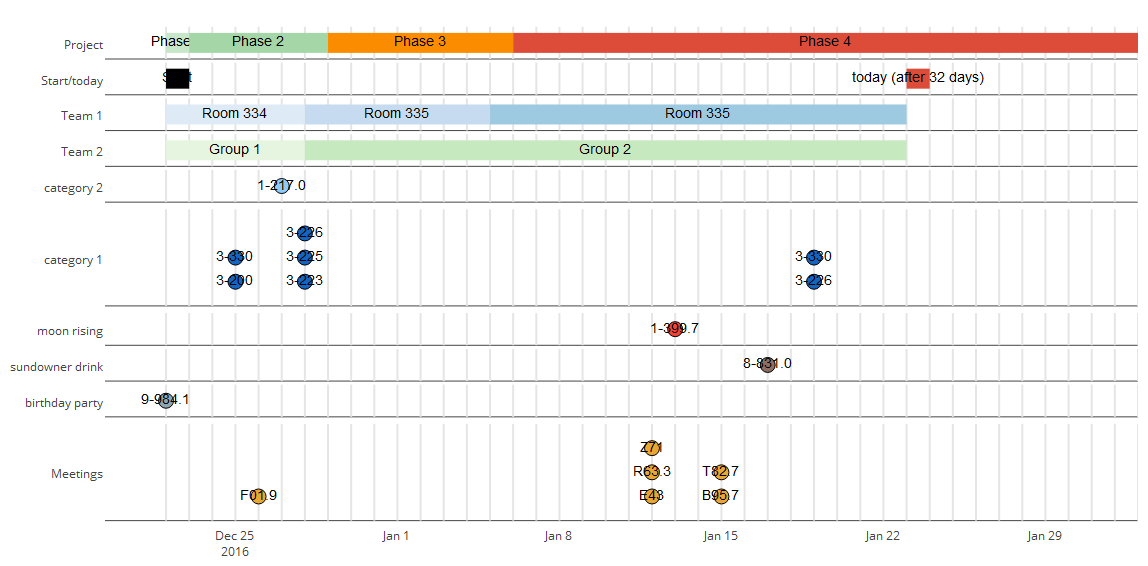
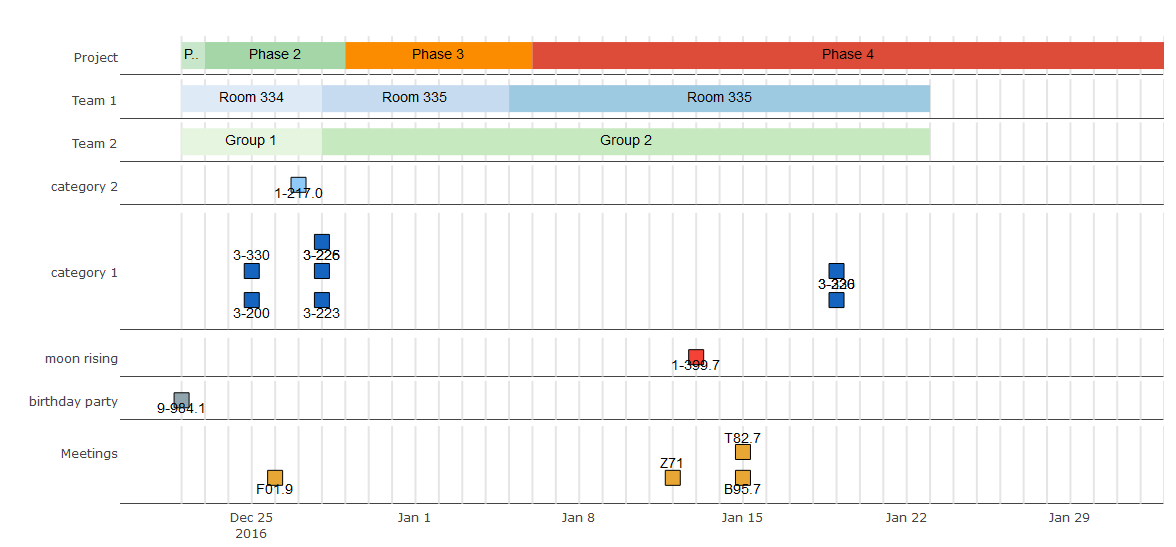
v040

diff --git a/README.md b/README.md
@@ -20,7 +20,7 @@ install.packages("vistime")
 
 To install the development version (v0.4.0, most recent fixes and improvements, but not released on CRAN yet, see NEWS), run the following code in an R console:
 ```{r}
-install.packages("devtools")
+require("devtools")
 devtools::install_github("shosaco/vistime") 
 ```
 
@@ -29,23 +29,24 @@ devtools::install_github("shosaco/vistime")
 
 ```{r}
 vistime(data, start = "start", end = "end", groups = "group", events = "event", colors = "color", 
-              fontcolors = "fontcolor", tooltips = "tooltip", title = NULL)
+              fontcolors = "fontcolor", tooltips = "tooltip", linewidth=NULL, title = NULL)
 ````
 
 
 ### Arguments
 
-parameter | optional? | explanation 
+parameter | optional? | data type | explanation 
 --------- |----------- | ----------- 
-data | mandatory | data.frame that contains the data to be visualised
-start | optional | the column name in data that contains start dates. Default: *"start"*
-end | optional | the column name in data that contains end dates. Default: *"end"*
-groups | optional | the column name in data to be used for grouping. Default: *"group"*
-events | optional | the column name in data that contains event names. Default: *"event"*
-colors | optional | the column name in data that contains colors for events. Default: *"color"*, if not present, colors are chosen via RColorBrewer
-fontcolors | optional | the column name in data that contains the font color for event labels. Default: "*fontcolor*", if not present, color will be black
-tooltips | optional | the column name in data that contains the mouseover tooltips for the events. Default: "*tooltip*", if not present, then tooltips are build from event name and date. <a href="http://help.plot.ly/adding-HTML-and-links-to-charts/#step-2-the-essentials">Basic HTML</a> is allowed
-title | optional | the title to be shown on top of the timeline
+data | mandatory | data.frame | data.frame that contains the data to be visualised
+start | optional | character | the column name in data that contains start dates. Default: *"start"*
+end | optional | character | the column name in data that contains end dates. Default: *"end"*
+groups | optional | character | the column name in data to be used for grouping. Default: *"group"*
+events | optional | character | the column name in data that contains event names. Default: *"event"*
+colors | optional | character | the column name in data that contains colors for events. Default: *"color"*, if not present, colors are chosen via RColorBrewer
+fontcolors | optional | character | the column name in data that contains the font color for event labels. Default: "*fontcolor*", if not present, color will be black
+tooltips | optional | character | the column name in data that contains the mouseover tooltips for the events. Default: "*tooltip*", if not present, then tooltips are build from event name and date. <a href="http://help.plot.ly/adding-HTML-and-links-to-charts/#step-2-the-essentials", target="_blank">Basic HTML</a> is allowed
+linewidth | optional | numeric | override the calculated linewidth for events
+title | optional | character | the title to be shown on top of the timeline
 
 ### Value
 
@@ -74,8 +75,6 @@ data <- read.csv(text="event,group,start,end,color
                        Phase 2,Project,2016-12-23,2016-12-29,#a5d6a7
                        Phase 3,Project,2016-12-29,2017-01-06,#fb8c00
                        Phase 4,Project,2017-01-06,2017-02-02,#DD4B39
-                       Start,Start/today,2016-12-22,2016-12-23,#000000
-                       today (after 32 days),Start/today,2017-01-23,2017-01-24,#DD4B39
                        1-217.0,category 2,2016-12-27,2016-12-27,#90caf9
                        3-200,category 1,2016-12-25,2016-12-25,#1565c0
                        3-330,category 1,2016-12-25,2016-12-25,#1565c0
@@ -88,8 +87,6 @@ data <- read.csv(text="event,group,start,end,color
                        8-831.0,sundowner drink,2017-01-17,2017-01-17,#8d6e63
                        9-984.1,birthday party,2016-12-22,2016-12-22,#90a4ae
                        F01.9,Meetings,2016-12-26,2016-12-26,#e8a735
-                       E43,Meetings,2017-01-12,2017-01-12,#e8a735
-                       R63.3,Meetings,2017-01-12,2017-01-12,#e8a735
                        Z71,Meetings,2017-01-12,2017-01-12,#e8a735
                        B95.7,Meetings,2017-01-15,2017-01-15,#e8a735
                        T82.7,Meetings,2017-01-15,2017-01-15,#e8a735

diff --git a/NEWS.md b/NEWS.md
@@ -1,12 +1,13 @@
-# 0.4.0 (not on CRAN yet)
-- line width of ranges improved (thicker lines if less events happening simultaneously)
-- left margin enlarged
-- simplified example
+# 0.4.0
+- line width calculation for ranges improved (thicker lines if less events happening simultaneously)
+- new parameter: `linewidth` to override the calculated line width for events
+- layout and labelling improvements
+- simplified examples
 - improved error checking
 
 # 0.3.0
 - new parameters: 
-    + `title` (gives a title for the timeline)
+    + `title` (a title for the timeline)
     + `tooltips` (column name of data that contains individual tooltips)
     + `fontcolors` (column name of data that contains color of the event font)
 - ordering of groups in plot is now the same as the order of "groups" column in data
